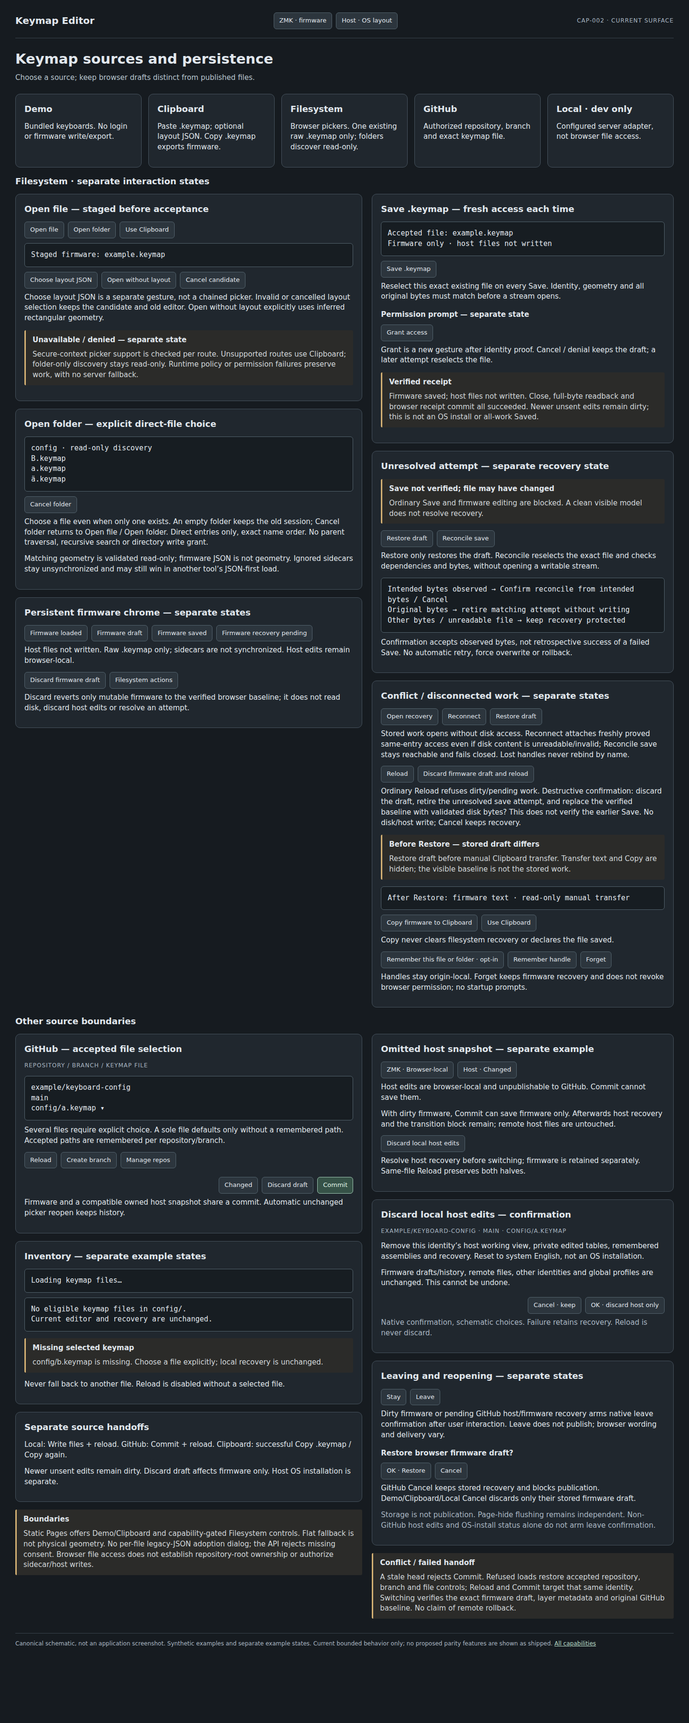
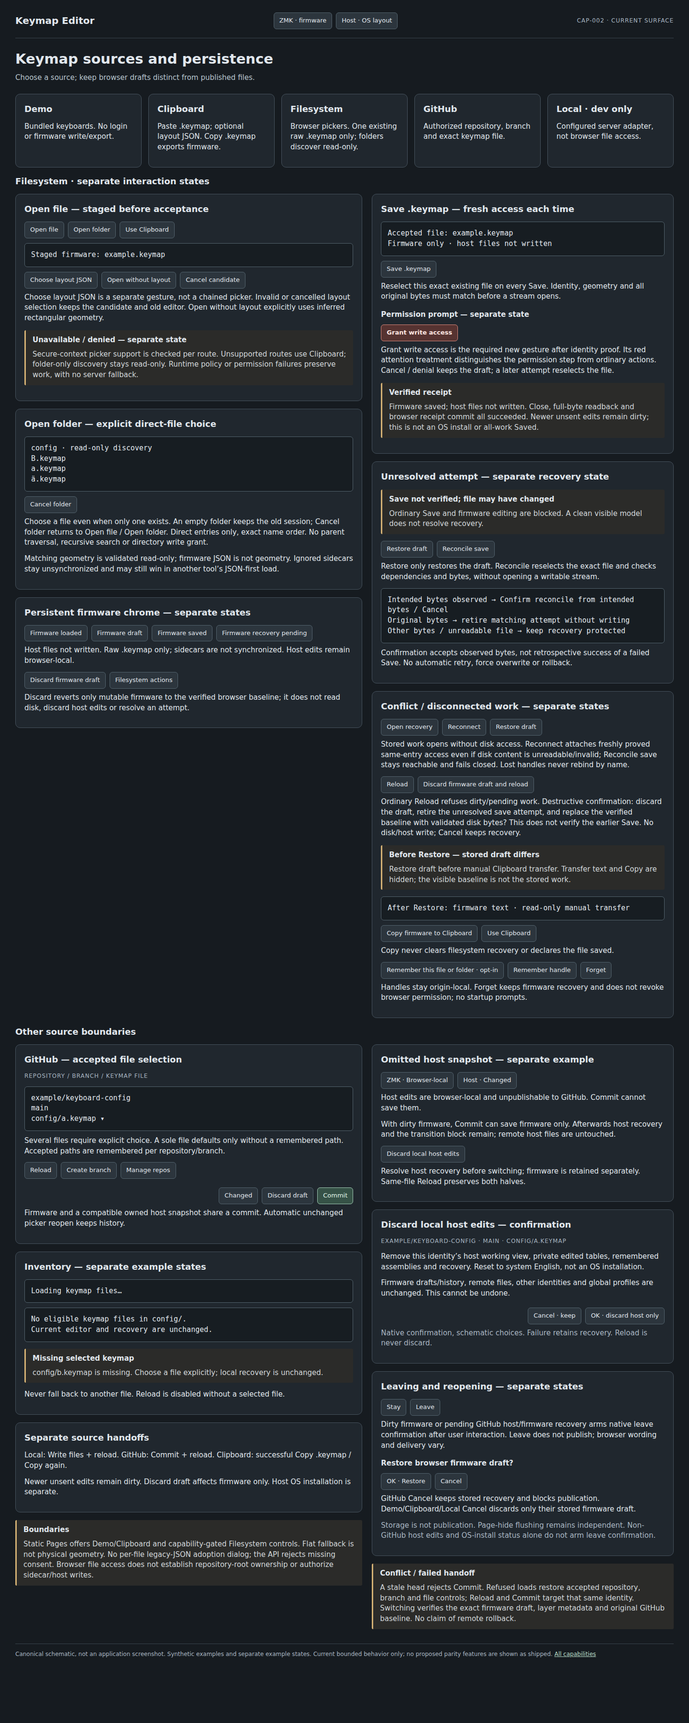
Emphasize explicit filesystem write permission.

diff --git a/docs/product/wireframes/html/CAP-002-keymap-sources-and-persistence.html b/docs/product/wireframes/html/CAP-002-keymap-sources-and-persistence.html
@@ -1,6 +1,6 @@
 <!doctype html>
 <html lang="en"><head><meta charset="utf-8"><meta name="viewport" content="width=device-width, initial-scale=1"><title>Keymap sources and persistence · Keymap Editor</title><style>
-:root{color-scheme:dark;font-family:system-ui,sans-serif;background:#161b20;color:#e1e7ed}*{box-sizing:border-box}body{margin:0;padding:26px 32px;font-size:15px;line-height:1.45}header{display:flex;align-items:center;justify-content:space-between;border-bottom:1px solid #39434c;padding-bottom:18px}header strong{font-size:20px}.muted,small,.eyebrow{color:#a9b6c2}.eyebrow{text-transform:uppercase;font-size:12px;letter-spacing:.08em}h1{font-size:29px;margin:22px 0 3px}h2{font-size:18px;margin:0 0 13px}h3{font-size:15px;margin:16px 0 9px}p{margin:8px 0 12px}.intro{margin-bottom:22px;color:#b8c5ce}.columns{display:grid;grid-template-columns:1.15fr 1fr;gap:20px}.card{border:1px solid #46525d;background:#20272e;border-radius:10px;padding:18px;margin-bottom:16px}.chips,.actions{display:flex;gap:8px;flex-wrap:wrap}.chip{display:inline-block;border:1px solid #52626c;border-radius:6px;padding:7px 11px;background:#2c353d;font-size:13px}.selected{border-color:#9fc8b3;background:#365247;color:#e1f6eb}.actions{justify-content:flex-end;margin-top:18px}.notice{border-left:3px solid #d4b174;padding:10px 14px;background:#2b2b29;margin:14px 0;border-radius:3px}.notice p{color:#d2d7da;margin-bottom:0}.board{display:grid;grid-template-columns:repeat(6,1fr);gap:8px;margin:20px 0 12px}.key{border:1px solid #566674;border-bottom:3px solid #61747f;border-radius:7px;padding:8px 5px;background:#303c46;min-height:112px;text-align:center;display:flex;flex-direction:column;justify-content:space-between}.key small{font-size:10px}.key b{font-size:22px}.key span{font-size:12px;color:#9baab6}.focused{outline:2px solid #a0c9b3}.binding,.field{font-family:ui-monospace,monospace;background:#171d22;border:1px solid #52626c;border-radius:6px;padding:13px;margin:10px 0}.binding{font-size:25px}.sources{display:grid;grid-template-columns:repeat(4,1fr);gap:14px}.sources .card{min-height:133px}.levels{display:grid;grid-template-columns:repeat(4,1fr);gap:8px;margin:15px 0}.levels div{border:1px solid #52626c;padding:9px;border-radius:5px;font-size:12px}.levels strong{display:block;font-size:25px;margin-top:8px;color:#bedbc9}footer{margin-top:16px;border-top:1px solid #39434c;padding-top:13px;color:#a9b6c2;font-size:12px}a{color:#b8ddc9}ul{padding-left:20px}li{margin:13px 0}
+:root{color-scheme:dark;font-family:system-ui,sans-serif;background:#161b20;color:#e1e7ed}*{box-sizing:border-box}body{margin:0;padding:26px 32px;font-size:15px;line-height:1.45}header{display:flex;align-items:center;justify-content:space-between;border-bottom:1px solid #39434c;padding-bottom:18px}header strong{font-size:20px}.muted,small,.eyebrow{color:#a9b6c2}.eyebrow{text-transform:uppercase;font-size:12px;letter-spacing:.08em}h1{font-size:29px;margin:22px 0 3px}h2{font-size:18px;margin:0 0 13px}h3{font-size:15px;margin:16px 0 9px}p{margin:8px 0 12px}.intro{margin-bottom:22px;color:#b8c5ce}.columns{display:grid;grid-template-columns:1.15fr 1fr;gap:20px}.card{border:1px solid #46525d;background:#20272e;border-radius:10px;padding:18px;margin-bottom:16px}.chips,.actions{display:flex;gap:8px;flex-wrap:wrap}.chip{display:inline-block;border:1px solid #52626c;border-radius:6px;padding:7px 11px;background:#2c353d;font-size:13px}.selected{border-color:#9fc8b3;background:#365247;color:#e1f6eb}.danger{border-color:#d4867a;background:#563331;color:#ffe7e2;font-weight:700}.actions{justify-content:flex-end;margin-top:18px}.notice{border-left:3px solid #d4b174;padding:10px 14px;background:#2b2b29;margin:14px 0;border-radius:3px}.notice p{color:#d2d7da;margin-bottom:0}.board{display:grid;grid-template-columns:repeat(6,1fr);gap:8px;margin:20px 0 12px}.key{border:1px solid #566674;border-bottom:3px solid #61747f;border-radius:7px;padding:8px 5px;background:#303c46;min-height:112px;text-align:center;display:flex;flex-direction:column;justify-content:space-between}.key small{font-size:10px}.key b{font-size:22px}.key span{font-size:12px;color:#9baab6}.focused{outline:2px solid #a0c9b3}.binding,.field{font-family:ui-monospace,monospace;background:#171d22;border:1px solid #52626c;border-radius:6px;padding:13px;margin:10px 0}.binding{font-size:25px}.sources{display:grid;grid-template-columns:repeat(4,1fr);gap:14px}.sources .card{min-height:133px}.levels{display:grid;grid-template-columns:repeat(4,1fr);gap:8px;margin:15px 0}.levels div{border:1px solid #52626c;padding:9px;border-radius:5px;font-size:12px}.levels strong{display:block;font-size:25px;margin-top:8px;color:#bedbc9}footer{margin-top:16px;border-top:1px solid #39434c;padding-top:13px;color:#a9b6c2;font-size:12px}a{color:#b8ddc9}ul{padding-left:20px}li{margin:13px 0}
 </style></head><body><header><strong>Keymap Editor</strong><div class="chips"><span class="chip">ZMK · firmware</span><span class="chip">Host · OS layout</span></div><span class="eyebrow">CAP-002 · current surface</span></header><main><h1>Keymap sources and persistence</h1><p class="intro">Choose a source; keep browser drafts distinct from published files.</p><div class="sources" style="grid-template-columns:repeat(5,1fr)"><section class="card"><h2>Demo</h2><p>Bundled keyboards. No login or firmware write/export.</p></section><section class="card"><h2>Clipboard</h2><p>Paste .keymap; optional layout JSON. Copy .keymap exports firmware.</p></section><section class="card"><h2>Filesystem</h2><p>Browser pickers. One existing raw .keymap only; folders discover read-only.</p></section><section class="card"><h2>GitHub</h2><p>Authorized repository, branch and exact keymap file.</p></section><section class="card"><h2>Local · dev only</h2><p>Configured server adapter, not browser file access.</p></section></div>
 <h2>Filesystem · separate interaction states</h2>
 <div class="columns"><div>
@@ -8,7 +8,7 @@
 <section class="card"><h2>Open folder — explicit direct-file choice</h2><div class="field">config · read-only discovery<br>B.keymap<br>a.keymap<br>ä.keymap</div><div class="chips"><span class="chip">Cancel folder</span></div><p>Choose a file even when only one exists. An empty folder keeps the old session; Cancel folder returns to Open file / Open folder. Direct entries only, exact name order. No parent traversal, recursive search or directory write grant.</p><p>Matching geometry is validated read-only; firmware JSON is not geometry. Ignored sidecars stay unsynchronized and may still win in another tool’s JSON-first load.</p></section>
 <section class="card"><h2>Persistent firmware chrome — separate states</h2><div class="chips"><span class="chip">Firmware loaded</span><span class="chip">Firmware draft</span><span class="chip">Firmware saved</span><span class="chip">Firmware recovery pending</span></div><p>Host files not written. Raw .keymap only; sidecars are not synchronized. Host edits remain browser-local.</p><div class="chips"><span class="chip">Discard firmware draft</span><span class="chip">Filesystem actions</span></div><p>Discard reverts only mutable firmware to the verified browser baseline; it does not read disk, discard host edits or resolve an attempt.</p></section>
 </div><div>
-<section class="card"><h2>Save .keymap — fresh access each time</h2><div class="field">Accepted file: example.keymap<br>Firmware only · host files not written</div><div class="chips"><span class="chip">Save .keymap</span></div><p>Reselect this exact existing file on every Save. Identity, geometry and all original bytes must match before a stream opens.</p><h3>Permission prompt — separate state</h3><div class="chips"><span class="chip">Grant access</span></div><p>Grant is a new gesture after identity proof. Cancel / denial keeps the draft; a later attempt reselects the file.</p><div class="notice"><strong>Verified receipt</strong><p>Firmware saved; host files not written. Close, full-byte readback and browser receipt commit all succeeded. Newer unsent edits remain dirty; this is not an OS install or all-work Saved.</p></div></section>
+<section class="card"><h2>Save .keymap — fresh access each time</h2><div class="field">Accepted file: example.keymap<br>Firmware only · host files not written</div><div class="chips"><span class="chip">Save .keymap</span></div><p>Reselect this exact existing file on every Save. Identity, geometry and all original bytes must match before a stream opens.</p><h3>Permission prompt — separate state</h3><div class="chips"><span class="chip danger">Grant write access</span></div><p>Grant write access is the required new gesture after identity proof. Its red attention treatment distinguishes the permission step from ordinary actions. Cancel / denial keeps the draft; a later attempt reselects the file.</p><div class="notice"><strong>Verified receipt</strong><p>Firmware saved; host files not written. Close, full-byte readback and browser receipt commit all succeeded. Newer unsent edits remain dirty; this is not an OS install or all-work Saved.</p></div></section>
 <section class="card"><h2>Unresolved attempt — separate recovery state</h2><div class="notice"><strong>Save not verified; file may have changed</strong><p>Ordinary Save and firmware editing are blocked. A clean visible model does not resolve recovery.</p></div><div class="chips"><span class="chip">Restore draft</span><span class="chip">Reconcile save</span></div><p>Restore only restores the draft. Reconcile reselects the exact file and checks dependencies and bytes, without opening a writable stream.</p><div class="field">Intended bytes observed → Confirm reconcile from intended bytes / Cancel<br>Original bytes → retire matching attempt without writing<br>Other bytes / unreadable file → keep recovery protected</div><p>Confirmation accepts observed bytes, not retrospective success of a failed Save. No automatic retry, force overwrite or rollback.</p></section>
 <section class="card"><h2>Conflict / disconnected work — separate states</h2><div class="chips"><span class="chip">Open recovery</span><span class="chip">Reconnect</span><span class="chip">Restore draft</span></div><p>Stored work opens without disk access. Reconnect attaches freshly proved same-entry access even if disk content is unreadable/invalid; Reconcile save stays reachable and fails closed. Lost handles never rebind by name.</p><div class="chips"><span class="chip">Reload</span><span class="chip">Discard firmware draft and reload</span></div><p>Ordinary Reload refuses dirty/pending work. Destructive confirmation: discard the draft, retire the unresolved save attempt, and replace the verified baseline with validated disk bytes? This does not verify the earlier Save. No disk/host write; Cancel keeps recovery.</p><div class="notice"><strong>Before Restore — stored draft differs</strong><p>Restore draft before manual Clipboard transfer. Transfer text and Copy are hidden; the visible baseline is not the stored work.</p></div><div class="field">After Restore: firmware text · read-only manual transfer</div><div class="chips"><span class="chip">Copy firmware to Clipboard</span><span class="chip">Use Clipboard</span></div><p>Copy never clears filesystem recovery or declares the file saved.</p><div class="chips"><span class="chip">Remember this file or folder · opt-in</span><span class="chip">Remember handle</span><span class="chip">Forget</span></div><p>Handles stay origin-local. Forget keeps firmware recovery and does not revoke browser permission; no startup prompts.</p></section>
 </div></div>

diff --git a/docs/product/wireframes/html/CAP-001-firmware-keymap-editing.html b/docs/product/wireframes/html/CAP-001-firmware-keymap-editing.html
@@ -1,6 +1,6 @@
 <!doctype html>
 <html lang="en"><head><meta charset="utf-8"><meta name="viewport" content="width=device-width, initial-scale=1"><title>Firmware keymap editing · Keymap Editor</title><style>
-:root{color-scheme:dark;font-family:system-ui,sans-serif;background:#161b20;color:#e1e7ed}*{box-sizing:border-box}body{margin:0;padding:26px 32px;font-size:15px;line-height:1.45}header{display:flex;align-items:center;justify-content:space-between;border-bottom:1px solid #39434c;padding-bottom:18px}header strong{font-size:20px}.muted,small,.eyebrow{color:#a9b6c2}.eyebrow{text-transform:uppercase;font-size:12px;letter-spacing:.08em}h1{font-size:29px;margin:22px 0 3px}h2{font-size:18px;margin:0 0 13px}h3{font-size:15px;margin:16px 0 9px}p{margin:8px 0 12px}.intro{margin-bottom:22px;color:#b8c5ce}.columns{display:grid;grid-template-columns:1.15fr 1fr;gap:20px}.card{border:1px solid #46525d;background:#20272e;border-radius:10px;padding:18px;margin-bottom:16px}.chips,.actions{display:flex;gap:8px;flex-wrap:wrap}.chip{display:inline-block;border:1px solid #52626c;border-radius:6px;padding:7px 11px;background:#2c353d;font-size:13px}.selected{border-color:#9fc8b3;background:#365247;color:#e1f6eb}.actions{justify-content:flex-end;margin-top:18px}.notice{border-left:3px solid #d4b174;padding:10px 14px;background:#2b2b29;margin:14px 0;border-radius:3px}.notice p{color:#d2d7da;margin-bottom:0}.board{display:grid;grid-template-columns:repeat(6,1fr);gap:8px;margin:20px 0 12px}.key{border:1px solid #566674;border-bottom:3px solid #61747f;border-radius:7px;padding:8px 5px;background:#303c46;min-height:112px;text-align:center;display:flex;flex-direction:column;justify-content:space-between}.key small{font-size:10px}.key b{font-size:22px}.key span{font-size:12px;color:#9baab6}.focused{outline:2px solid #a0c9b3}.binding,.field{font-family:ui-monospace,monospace;background:#171d22;border:1px solid #52626c;border-radius:6px;padding:13px;margin:10px 0}.binding{font-size:25px}.sources{display:grid;grid-template-columns:repeat(4,1fr);gap:14px}.sources .card{min-height:133px}.levels{display:grid;grid-template-columns:repeat(4,1fr);gap:8px;margin:15px 0}.levels div{border:1px solid #52626c;padding:9px;border-radius:5px;font-size:12px}.levels strong{display:block;font-size:25px;margin-top:8px;color:#bedbc9}footer{margin-top:16px;border-top:1px solid #39434c;padding-top:13px;color:#a9b6c2;font-size:12px}a{color:#b8ddc9}ul{padding-left:20px}li{margin:13px 0}
+:root{color-scheme:dark;font-family:system-ui,sans-serif;background:#161b20;color:#e1e7ed}*{box-sizing:border-box}body{margin:0;padding:26px 32px;font-size:15px;line-height:1.45}header{display:flex;align-items:center;justify-content:space-between;border-bottom:1px solid #39434c;padding-bottom:18px}header strong{font-size:20px}.muted,small,.eyebrow{color:#a9b6c2}.eyebrow{text-transform:uppercase;font-size:12px;letter-spacing:.08em}h1{font-size:29px;margin:22px 0 3px}h2{font-size:18px;margin:0 0 13px}h3{font-size:15px;margin:16px 0 9px}p{margin:8px 0 12px}.intro{margin-bottom:22px;color:#b8c5ce}.columns{display:grid;grid-template-columns:1.15fr 1fr;gap:20px}.card{border:1px solid #46525d;background:#20272e;border-radius:10px;padding:18px;margin-bottom:16px}.chips,.actions{display:flex;gap:8px;flex-wrap:wrap}.chip{display:inline-block;border:1px solid #52626c;border-radius:6px;padding:7px 11px;background:#2c353d;font-size:13px}.selected{border-color:#9fc8b3;background:#365247;color:#e1f6eb}.danger{border-color:#d4867a;background:#563331;color:#ffe7e2;font-weight:700}.actions{justify-content:flex-end;margin-top:18px}.notice{border-left:3px solid #d4b174;padding:10px 14px;background:#2b2b29;margin:14px 0;border-radius:3px}.notice p{color:#d2d7da;margin-bottom:0}.board{display:grid;grid-template-columns:repeat(6,1fr);gap:8px;margin:20px 0 12px}.key{border:1px solid #566674;border-bottom:3px solid #61747f;border-radius:7px;padding:8px 5px;background:#303c46;min-height:112px;text-align:center;display:flex;flex-direction:column;justify-content:space-between}.key small{font-size:10px}.key b{font-size:22px}.key span{font-size:12px;color:#9baab6}.focused{outline:2px solid #a0c9b3}.binding,.field{font-family:ui-monospace,monospace;background:#171d22;border:1px solid #52626c;border-radius:6px;padding:13px;margin:10px 0}.binding{font-size:25px}.sources{display:grid;grid-template-columns:repeat(4,1fr);gap:14px}.sources .card{min-height:133px}.levels{display:grid;grid-template-columns:repeat(4,1fr);gap:8px;margin:15px 0}.levels div{border:1px solid #52626c;padding:9px;border-radius:5px;font-size:12px}.levels strong{display:block;font-size:25px;margin-top:8px;color:#bedbc9}footer{margin-top:16px;border-top:1px solid #39434c;padding-top:13px;color:#a9b6c2;font-size:12px}a{color:#b8ddc9}ul{padding-left:20px}li{margin:13px 0}
 .layer-rows{width:100%;border-collapse:collapse;margin:12px 0}.layer-rows th,.layer-rows td{padding:6px;text-align:left;border-bottom:1px solid #46525d}.layer-rows th{font-weight:500}.layer-rows .chip{padding:3px 8px}</style></head><body><header><strong>Keymap Editor</strong><div class="chips"><span class="chip">ZMK · firmware</span><span class="chip">Host · OS layout</span></div><span class="eyebrow">CAP-001 · current surface</span></header><main><h1>Firmware keymap editing</h1><p class="intro">Edit a binding without replacing the rest of the keymap.</p><div class="columns"><div>
 <section class="card"><h2>Layers and board</h2><div class="chips"><span class="chip">Base · Rename</span><span class="chip">Lower · Rename</span><span class="chip">Add Layer</span><span class="chip">Delete layer</span></div><div class="board"><div class="key"><small>Base</small><b>qQ</b><span>ˬ ˬ</span><small>Lower · &amp;trans</small></div><div class="key"><small>Base</small><b>wW</b><span>ˬ ˬ</span><small>Lower · &amp;trans</small></div><div class="key focused"><small>Base</small><b>eE</b><span>ˬ ˬ</span><small>Lower · &amp;trans</small></div><div class="key"><small>Base</small><b>rR</b><span>ˬ ˬ</span><small>Lower · &amp;trans</small></div><div class="key"><small>Base</small><b>tT</b><span>ˬ ˬ</span><small>Lower · &amp;trans</small></div><div class="key"><small>Base</small><b>yY</b><span>ˬ ˬ</span><small>Lower · &amp;trans</small></div><div class="key"><small>Base</small><b>aA</b><span>ˬ ˬ</span><small>Lower · &amp;trans</small></div><div class="key"><small>Base</small><b>sS</b><span>ˬ ˬ</span><small>Lower · &amp;trans</small></div><div class="key"><small>Base</small><b>dD</b><span>ˬ ˬ</span><small>Lower · &amp;trans</small></div><div class="key"><small>Base</small><b>fF</b><span>ˬ ˬ</span><small>Lower · &amp;trans</small></div><div class="key"><small>Base</small><b>gG</b><span>ˬ ˬ</span><small>Lower · &amp;trans</small></div><div class="key"><small>Base</small><b>hH</b><span>ˬ ˬ</span><small>Lower · &amp;trans</small></div></div><p class="muted">Synthetic 12-key fixture · click a firmware row to edit that layer.</p><div class="chips"><span class="chip">Combos</span><span class="chip">Colors</span><span class="chip">Scheme</span></div><p>Also: conditional layers, encoder CW/CCW, hold-tap timing, Homerow / Autoshift, fixed Layer + RGB recipe.</p><p>Bluetooth: BT_DISC + profile 0–4, BT_CLR_ALL.<br>RGB: RGB_ON / RGB_OFF; no general color editor.</p></section>
 <section class="card"><h2>Expanded layer table · Stack off</h2><p class="eyebrow">Demo or verified Clipboard source</p><table class="layer-rows"><thead><tr><th>Layer</th><th>Firmware actions</th></tr></thead><tbody><tr><th>0 · Base</th><td><span class="chip">Duplicate</span> <span class="chip">Move · fixed</span></td></tr><tr><th>1 · Lower</th><td><span class="chip">Duplicate</span> <span class="chip">Move</span></td></tr><tr><th>2 · Raise</th><td><span class="chip">Duplicate</span> <span class="chip">Move</span></td></tr></tbody></table><p>Duplicate appends “Lower copy”; keys and encoder turns are independent. References still target original layers. One firmware undo step.</p><h3>Move Lower — separate staged example</h3><div class="field">New layer position · 2 · Raise ▾</div><div class="actions"><span class="chip selected">Apply move</span><span class="chip">Cancel</span></div><p>Keyboard: Move → position → Apply. Or drag Move onto another Move control. Layer 0 stays fixed; moves change priority, not reference targets.</p><p class="muted">Focus follows the moved control. Cancel / Escape / unchanged position retain redo. Duplicate keeps focus on its source control.</p></section>

diff --git a/docs/product/wireframes/html/CAP-003-host-layouts-and-legends.html b/docs/product/wireframes/html/CAP-003-host-layouts-and-legends.html
@@ -1,6 +1,6 @@
 <!doctype html>
 <html lang="en"><head><meta charset="utf-8"><meta name="viewport" content="width=device-width, initial-scale=1"><title>Host layouts and composed legends · Keymap Editor</title><style>
-:root{color-scheme:dark;font-family:system-ui,sans-serif;background:#161b20;color:#e1e7ed}*{box-sizing:border-box}body{margin:0;padding:26px 32px;font-size:15px;line-height:1.45}header{display:flex;align-items:center;justify-content:space-between;border-bottom:1px solid #39434c;padding-bottom:18px}header strong{font-size:20px}.muted,small,.eyebrow{color:#a9b6c2}.eyebrow{text-transform:uppercase;font-size:12px;letter-spacing:.08em}h1{font-size:29px;margin:22px 0 3px}h2{font-size:18px;margin:0 0 13px}h3{font-size:15px;margin:16px 0 9px}p{margin:8px 0 12px}.intro{margin-bottom:22px;color:#b8c5ce}.columns{display:grid;grid-template-columns:1.15fr 1fr;gap:20px}.card{border:1px solid #46525d;background:#20272e;border-radius:10px;padding:18px;margin-bottom:16px}.chips,.actions{display:flex;gap:8px;flex-wrap:wrap}.chip{display:inline-block;border:1px solid #52626c;border-radius:6px;padding:7px 11px;background:#2c353d;font-size:13px}.selected{border-color:#9fc8b3;background:#365247;color:#e1f6eb}.actions{justify-content:flex-end;margin-top:18px}.notice{border-left:3px solid #d4b174;padding:10px 14px;background:#2b2b29;margin:14px 0;border-radius:3px}.notice p{color:#d2d7da;margin-bottom:0}.board{display:grid;grid-template-columns:repeat(6,1fr);gap:8px;margin:20px 0 12px}.key{border:1px solid #566674;border-bottom:3px solid #61747f;border-radius:7px;padding:8px 5px;background:#303c46;min-height:112px;text-align:center;display:flex;flex-direction:column;justify-content:space-between}.key small{font-size:10px}.key b{font-size:22px}.key span{font-size:12px;color:#9baab6}.focused{outline:2px solid #a0c9b3}.binding,.field{font-family:ui-monospace,monospace;background:#171d22;border:1px solid #52626c;border-radius:6px;padding:13px;margin:10px 0}.binding{font-size:25px}.sources{display:grid;grid-template-columns:repeat(4,1fr);gap:14px}.sources .card{min-height:133px}.levels{display:grid;grid-template-columns:repeat(4,1fr);gap:8px;margin:15px 0}.levels div{border:1px solid #52626c;padding:9px;border-radius:5px;font-size:12px}.levels strong{display:block;font-size:25px;margin-top:8px;color:#bedbc9}footer{margin-top:16px;border-top:1px solid #39434c;padding-top:13px;color:#a9b6c2;font-size:12px}a{color:#b8ddc9}ul{padding-left:20px}li{margin:13px 0}
+:root{color-scheme:dark;font-family:system-ui,sans-serif;background:#161b20;color:#e1e7ed}*{box-sizing:border-box}body{margin:0;padding:26px 32px;font-size:15px;line-height:1.45}header{display:flex;align-items:center;justify-content:space-between;border-bottom:1px solid #39434c;padding-bottom:18px}header strong{font-size:20px}.muted,small,.eyebrow{color:#a9b6c2}.eyebrow{text-transform:uppercase;font-size:12px;letter-spacing:.08em}h1{font-size:29px;margin:22px 0 3px}h2{font-size:18px;margin:0 0 13px}h3{font-size:15px;margin:16px 0 9px}p{margin:8px 0 12px}.intro{margin-bottom:22px;color:#b8c5ce}.columns{display:grid;grid-template-columns:1.15fr 1fr;gap:20px}.card{border:1px solid #46525d;background:#20272e;border-radius:10px;padding:18px;margin-bottom:16px}.chips,.actions{display:flex;gap:8px;flex-wrap:wrap}.chip{display:inline-block;border:1px solid #52626c;border-radius:6px;padding:7px 11px;background:#2c353d;font-size:13px}.selected{border-color:#9fc8b3;background:#365247;color:#e1f6eb}.danger{border-color:#d4867a;background:#563331;color:#ffe7e2;font-weight:700}.actions{justify-content:flex-end;margin-top:18px}.notice{border-left:3px solid #d4b174;padding:10px 14px;background:#2b2b29;margin:14px 0;border-radius:3px}.notice p{color:#d2d7da;margin-bottom:0}.board{display:grid;grid-template-columns:repeat(6,1fr);gap:8px;margin:20px 0 12px}.key{border:1px solid #566674;border-bottom:3px solid #61747f;border-radius:7px;padding:8px 5px;background:#303c46;min-height:112px;text-align:center;display:flex;flex-direction:column;justify-content:space-between}.key small{font-size:10px}.key b{font-size:22px}.key span{font-size:12px;color:#9baab6}.focused{outline:2px solid #a0c9b3}.binding,.field{font-family:ui-monospace,monospace;background:#171d22;border:1px solid #52626c;border-radius:6px;padding:13px;margin:10px 0}.binding{font-size:25px}.sources{display:grid;grid-template-columns:repeat(4,1fr);gap:14px}.sources .card{min-height:133px}.levels{display:grid;grid-template-columns:repeat(4,1fr);gap:8px;margin:15px 0}.levels div{border:1px solid #52626c;padding:9px;border-radius:5px;font-size:12px}.levels strong{display:block;font-size:25px;margin-top:8px;color:#bedbc9}footer{margin-top:16px;border-top:1px solid #39434c;padding-top:13px;color:#a9b6c2;font-size:12px}a{color:#b8ddc9}ul{padding-left:20px}li{margin:13px 0}
 .layer-rows{width:100%;border-collapse:collapse;margin:12px 0}.layer-rows th,.layer-rows td{padding:6px;text-align:left;border-bottom:1px solid #46525d}.layer-rows th{font-weight:500}.layer-rows .chip{padding:3px 8px}</style></head><body><header><strong>Keymap Editor</strong><div class="chips"><span class="chip">ZMK · firmware</span><span class="chip">Host · OS layout</span></div><span class="eyebrow">CAP-003 · current surface</span></header><main><h1>Host layouts and composed legends</h1><p class="intro">See the host characters, then edit a user copy or export OS layout sources.</p><div class="columns"><div><section class="card"><h2>Language profiles and composed board</h2><div class="chips"><span class="chip">English · System</span><span class="chip">German · User copy</span><span class="chip">Stack</span><span class="chip">Differences</span><span class="chip">Remember</span></div><div class="board"><div class="key"><small>Base</small><b>qQ</b><span>ˬ ˬ</span><small>Lower · &amp;trans</small></div><div class="key"><small>Base</small><b>wW</b><span>ˬ ˬ</span><small>Lower · &amp;trans</small></div><div class="key focused"><small>Base</small><b>eE</b><span>ˬ ˬ</span><small>Lower · &amp;trans</small></div><div class="key"><small>Base</small><b>rR</b><span>ˬ ˬ</span><small>Lower · &amp;trans</small></div><div class="key"><small>Base</small><b>tT</b><span>ˬ ˬ</span><small>Lower · &amp;trans</small></div><div class="key"><small>Base</small><b>yY</b><span>ˬ ˬ</span><small>Lower · &amp;trans</small></div><div class="key"><small>Base</small><b>aA</b><span>ˬ ˬ</span><small>Lower · &amp;trans</small></div><div class="key"><small>Base</small><b>sS</b><span>ˬ ˬ</span><small>Lower · &amp;trans</small></div><div class="key"><small>Base</small><b>dD</b><span>ˬ ˬ</span><small>Lower · &amp;trans</small></div><div class="key"><small>Base</small><b>fF</b><span>ˬ ˬ</span><small>Lower · &amp;trans</small></div><div class="key"><small>Base</small><b>gG</b><span>ˬ ˬ</span><small>Lower · &amp;trans</small></div><div class="key"><small>Base</small><b>hH</b><span>ˬ ˬ</span><small>Lower · &amp;trans</small></div></div><p class="muted">Synthetic 12-key fixture · click a firmware row to edit that layer.</p><p>Four level slots per on-keycap language; at most two languages on the keycap. Hover previews read-only decoding.</p></section>
 <section class="card"><h2>Layer strip · expanded on focus or hover</h2><table class="layer-rows"><thead><tr><th>Layer</th><th>Firmware actions</th></tr></thead><tbody><tr><th>0 · Base</th><td><span class="chip">Duplicate</span> <span class="chip">Move · fixed</span></td></tr><tr><th>1 · Raise</th><td><span class="chip">Duplicate</span> <span class="chip">Move</span></td></tr><tr><th>2 · Lower</th><td><span class="chip">Duplicate</span> <span class="chip">Move</span></td></tr></tbody></table><p>Stack off exposes firmware Duplicate / Move. Keyboard position selection and dragging Move use the same safe operation. Resting strip and language-stack mode hide these controls.</p><div class="field">Moved Lower to position 2.<br>Layer priority changed; reference targets were preserved.</div><p>Eyes follow logical layers through move, undo, redo and discard — also after draft recovery. The raw-base preference stays unchanged; a copy is not auto-shown.</p></section>
 <section class="card"><h2>Host lane — separate from firmware history</h2><div class="chips"><span class="chip">Changed</span><span class="chip">Linux</span><span class="chip">Windows</span></div><p>ZMK undo/redo and Discard draft do not undo host glyph changes. Non-GitHub host edits and OS-install status alone do not arm leave confirmation.</p></section>

diff --git a/docs/product/wireframes/index.html b/docs/product/wireframes/index.html
@@ -1,4 +1,4 @@
 <!doctype html>
 <html lang="en"><head><meta charset="utf-8"><meta name="viewport" content="width=device-width, initial-scale=1"><title>Current capability wireframes · Keymap Editor</title><style>
-:root{color-scheme:dark;font-family:system-ui,sans-serif;background:#161b20;color:#e1e7ed}*{box-sizing:border-box}body{margin:0;padding:26px 32px;font-size:15px;line-height:1.45}header{display:flex;align-items:center;justify-content:space-between;border-bottom:1px solid #39434c;padding-bottom:18px}header strong{font-size:20px}.muted,small,.eyebrow{color:#a9b6c2}.eyebrow{text-transform:uppercase;font-size:12px;letter-spacing:.08em}h1{font-size:29px;margin:22px 0 3px}h2{font-size:18px;margin:0 0 13px}h3{font-size:15px;margin:16px 0 9px}p{margin:8px 0 12px}.intro{margin-bottom:22px;color:#b8c5ce}.columns{display:grid;grid-template-columns:1.15fr 1fr;gap:20px}.card{border:1px solid #46525d;background:#20272e;border-radius:10px;padding:18px;margin-bottom:16px}.chips,.actions{display:flex;gap:8px;flex-wrap:wrap}.chip{display:inline-block;border:1px solid #52626c;border-radius:6px;padding:7px 11px;background:#2c353d;font-size:13px}.selected{border-color:#9fc8b3;background:#365247;color:#e1f6eb}.actions{justify-content:flex-end;margin-top:18px}.notice{border-left:3px solid #d4b174;padding:10px 14px;background:#2b2b29;margin:14px 0;border-radius:3px}.notice p{color:#d2d7da;margin-bottom:0}.board{display:grid;grid-template-columns:repeat(6,1fr);gap:8px;margin:20px 0 12px}.key{border:1px solid #566674;border-bottom:3px solid #61747f;border-radius:7px;padding:8px 5px;background:#303c46;min-height:112px;text-align:center;display:flex;flex-direction:column;justify-content:space-between}.key small{font-size:10px}.key b{font-size:22px}.key span{font-size:12px;color:#9baab6}.focused{outline:2px solid #a0c9b3}.binding,.field{font-family:ui-monospace,monospace;background:#171d22;border:1px solid #52626c;border-radius:6px;padding:13px;margin:10px 0}.binding{font-size:25px}.sources{display:grid;grid-template-columns:repeat(4,1fr);gap:14px}.sources .card{min-height:133px}.levels{display:grid;grid-template-columns:repeat(4,1fr);gap:8px;margin:15px 0}.levels div{border:1px solid #52626c;padding:9px;border-radius:5px;font-size:12px}.levels strong{display:block;font-size:25px;margin-top:8px;color:#bedbc9}footer{margin-top:16px;border-top:1px solid #39434c;padding-top:13px;color:#a9b6c2;font-size:12px}a{color:#b8ddc9}ul{padding-left:20px}li{margin:13px 0}
+:root{color-scheme:dark;font-family:system-ui,sans-serif;background:#161b20;color:#e1e7ed}*{box-sizing:border-box}body{margin:0;padding:26px 32px;font-size:15px;line-height:1.45}header{display:flex;align-items:center;justify-content:space-between;border-bottom:1px solid #39434c;padding-bottom:18px}header strong{font-size:20px}.muted,small,.eyebrow{color:#a9b6c2}.eyebrow{text-transform:uppercase;font-size:12px;letter-spacing:.08em}h1{font-size:29px;margin:22px 0 3px}h2{font-size:18px;margin:0 0 13px}h3{font-size:15px;margin:16px 0 9px}p{margin:8px 0 12px}.intro{margin-bottom:22px;color:#b8c5ce}.columns{display:grid;grid-template-columns:1.15fr 1fr;gap:20px}.card{border:1px solid #46525d;background:#20272e;border-radius:10px;padding:18px;margin-bottom:16px}.chips,.actions{display:flex;gap:8px;flex-wrap:wrap}.chip{display:inline-block;border:1px solid #52626c;border-radius:6px;padding:7px 11px;background:#2c353d;font-size:13px}.selected{border-color:#9fc8b3;background:#365247;color:#e1f6eb}.danger{border-color:#d4867a;background:#563331;color:#ffe7e2;font-weight:700}.actions{justify-content:flex-end;margin-top:18px}.notice{border-left:3px solid #d4b174;padding:10px 14px;background:#2b2b29;margin:14px 0;border-radius:3px}.notice p{color:#d2d7da;margin-bottom:0}.board{display:grid;grid-template-columns:repeat(6,1fr);gap:8px;margin:20px 0 12px}.key{border:1px solid #566674;border-bottom:3px solid #61747f;border-radius:7px;padding:8px 5px;background:#303c46;min-height:112px;text-align:center;display:flex;flex-direction:column;justify-content:space-between}.key small{font-size:10px}.key b{font-size:22px}.key span{font-size:12px;color:#9baab6}.focused{outline:2px solid #a0c9b3}.binding,.field{font-family:ui-monospace,monospace;background:#171d22;border:1px solid #52626c;border-radius:6px;padding:13px;margin:10px 0}.binding{font-size:25px}.sources{display:grid;grid-template-columns:repeat(4,1fr);gap:14px}.sources .card{min-height:133px}.levels{display:grid;grid-template-columns:repeat(4,1fr);gap:8px;margin:15px 0}.levels div{border:1px solid #52626c;padding:9px;border-radius:5px;font-size:12px}.levels strong{display:block;font-size:25px;margin-top:8px;color:#bedbc9}footer{margin-top:16px;border-top:1px solid #39434c;padding-top:13px;color:#a9b6c2;font-size:12px}a{color:#b8ddc9}ul{padding-left:20px}li{margin:13px 0}
 </style></head><body><main><h1>Current capability wireframes</h1><p>Generated schematics of implemented behavior, not future proposals or application screenshots.</p><ul><li><a href="html/CAP-001-firmware-keymap-editing.html">CAP-001 — Firmware keymap editing</a> · <a href="exports/CAP-001-firmware-keymap-editing.png">PNG</a></li><li><a href="html/CAP-002-keymap-sources-and-persistence.html">CAP-002 — Keymap sources and persistence</a> · <a href="exports/CAP-002-keymap-sources-and-persistence.png">PNG</a></li><li><a href="html/CAP-003-host-layouts-and-legends.html">CAP-003 — Host layouts and composed legends</a> · <a href="exports/CAP-003-host-layouts-and-legends.png">PNG</a></li></ul></main></body></html>

diff --git a/e2e/filesystem.spec.ts b/e2e/filesystem.spec.ts
@@ -11,7 +11,7 @@
  * functions.
  *
  * Covered controls: Filesystem source radio, Open file, Open folder,
- * Choose layout JSON, Open without layout, Save .keymap, Grant access,
+ * Choose layout JSON, Open without layout, Save .keymap, Grant write access,
  * Reconcile save, Reconnect, Restore draft, Discard firmware draft and
  * reload, Use Clipboard.
  *
@@ -324,7 +324,7 @@ test.describe('filesystem source (synthetic picker doubles)', () => {
     await expect(save).toBeEnabled()
     await save.click()
     await expect(fsNotice(page)).toContainText(/access action is required|explicit access/i)
-    const grant = saving.getByRole('button', { name: 'Grant access' })
+    const grant = saving.getByRole('button', { name: 'Grant write access' })
     await expect(grant).toBeVisible()
     await grant.click()
 
@@ -366,7 +366,7 @@ test.describe('filesystem source (synthetic picker doubles)', () => {
     const saving = await openFilesystemActions(page)
     await saving.getByRole('button', { name: 'Save .keymap' }).click()
     await expect(fsNotice(page)).toContainText(/access action is required|explicit access/i)
-    await saving.getByRole('button', { name: 'Grant access' }).click()
+    await saving.getByRole('button', { name: 'Grant write access' }).click()
     await expect(fsNotice(page)).toContainText(/not granted|denied|draft.*unchanged/i)
     expect(await fsDisk(page, 'a.keymap')).not.toContain('&kp F13')
     const log = await fsLog(page)

diff --git a/apps/web/src/lib/components/Pickers/Filesystem/Picker.svelte b/apps/web/src/lib/components/Pickers/Filesystem/Picker.svelte
@@ -878,7 +878,13 @@
           Save .keymap
         </button>
         {#if grantable}
-          <button type="button" disabled={busy} onclick={() => void grant()}>Grant access</button>
+          <button
+            type="button"
+            class="fs-grant-access"
+            title="Allow this site to write the selected .keymap"
+            disabled={busy}
+            onclick={() => void grant()}
+          >Grant write access</button>
         {/if}
         {#if canReconcile}
           <button type="button" disabled={busy} onclick={() => void reconcile()}>Reconcile save</button>
@@ -1001,6 +1007,19 @@
   .fs-actions button:disabled {
     cursor: not-allowed;
     opacity: 0.55;
+  }
+
+  /* A saved file is blocked until the explicit browser write grant. */
+  .fs-actions .fs-grant-access:not(:disabled) {
+    background: var(--danger-wash);
+    border-color: var(--danger-border);
+    color: var(--danger-ink);
+    font-weight: 700;
+  }
+
+  .fs-actions .fs-grant-access:hover:not(:disabled) {
+    background: color-mix(in srgb, var(--danger-wash) 70%, var(--danger-border));
+    border-color: var(--danger-ink);
   }
 
   .fs-list {

diff --git a/apps/web/src/lib/components/Pickers/Filesystem/Picker.test.ts b/apps/web/src/lib/components/Pickers/Filesystem/Picker.test.ts
@@ -385,10 +385,12 @@ describe('FilesystemPicker', () => {
     flushSync()
 
     button('Save .keymap').click()
-    await vi.waitFor(() => expect(buttonContaining('Grant access')).toBeTruthy())
+    await vi.waitFor(() => expect(buttonContaining('Grant write access')).toBeTruthy())
+    const grant = button('Grant write access')
+    expect(grant.classList.contains('fs-grant-access')).toBe(true)
     expect(stream.write).not.toHaveBeenCalled()
 
-    button('Grant access').click()
+    grant.click()
     await vi.waitFor(() => expect(stream.close).toHaveBeenCalled())
     expect(picked.requestPermission).toHaveBeenCalledWith({ mode: 'readwrite' })
   })

diff --git a/docs/product/capabilities/CAP-002-keymap-sources-and-persistence.md b/docs/product/capabilities/CAP-002-keymap-sources-and-persistence.md
@@ -11,7 +11,7 @@
 - Proved legacy mode retains config/keymap.json and config/info.json priority. Scoped mode uses selected-file firmware JSON, a matching template/physical-layout JSON and a durable mode marker per ADR 0002; shared legacy sidecars remain untouched. Creating a missing/invalid scoped firmware JSON beside legacy JSON requires revision-bound explicit input choice at the API. GitHub/Clipboard can infer a rectangular binding-count layout when geometry is absent.
 - The opt-in Local adapter reads/writes the configured development tree; it is not browser filesystem access.
 - The separate Filesystem source uses supported secure-context browser pickers without an API or GitHub file request. Open file stages one existing raw `.keymap`; a later Choose layout JSON action validates read-only geometry, or Open without layout explicitly uses a rectangular inferred layout. Cancellation or invalid supplied geometry keeps the candidate and the accepted editor unchanged. Open folder lists only direct eligible files in exact filename order and requires an explicit choice even for one file; it never grants folder write access.
-- Save .keymap requires fresh file-picker reselection on every attempt, handle equivalence, original firmware/dependency byte checks, and retained browser recovery before opening one writable stream. A prompt outcome exposes a separate Grant access gesture; denied/cancelled operations preserve work. Successful close, full-byte readback and a committed firmware receipt are required for “Firmware saved; host files not written.” Sidecars are not synchronized and browser display aliases do not rename DTS nodes.
+- Save .keymap requires fresh file-picker reselection on every attempt, handle equivalence, original firmware/dependency byte checks, and retained browser recovery before opening one writable stream. A prompt outcome exposes the red **Grant write access** action as a separate gesture; denied/cancelled operations preserve work. Successful close, full-byte readback and a committed firmware receipt are required for “Firmware saved; host files not written.” Sidecars are not synchronized and browser display aliases do not rename DTS nodes.
 - Filesystem chrome distinguishes loaded firmware, changed firmware, verified firmware Save and pending recovery even when the visible model is clean. Discard firmware draft restores only the verified browser baseline and preserves original source and unresolved attempts; it neither reads/adopts disk changes nor discards host edits. Restore draft restores browser work only. Reconcile save remains separate from ordinary Save/editing: it freshly proves file identity and bytes, retires an original-byte attempt or explicitly confirms intended bytes without rewriting, and keeps third-value conflicts protected.
 - Filesystem Reload stages freshly identity-checked file/geometry inputs. Ordinary Reload refuses dirty or pending work; confirmed Discard firmware draft and reload replaces browser baseline/recovery under captured revision and storage guards, without writing disk. With an unresolved attempt, confirmation explicitly names its retirement and replacement of the verified baseline with validated disk bytes; this does not verify the earlier Save. Cancellation performs no picker/read or adoption. Clean unchanged reload preserves history. Cancel folder exits an empty or populated discovery inventory without selecting a file.
 - Stored filesystem work can be opened without disk access, restored explicitly and transferred as core-generated firmware text. Before Restore, pending stored firmware or structural metadata differing from the live draft hides transfer text and Copy, with explicit Restore guidance; the visible baseline cannot masquerade as the stored draft. Copy firmware to Clipboard never accepts a filesystem save or clears its recovery. Reconnect requires a retained handle and fresh same-entry proof, then attaches access before inspecting content: unreadable/invalid firmware or invalid geometry leaves Reconcile save reachable, and failed reconciliation preserves recovery without writing. Lost handles retain manual transfer after Restore rather than rebinding by name. Remember this file or folder is opt-in, with separate origin-local handle storage; Forget releases that association without deleting firmware recovery or revoking browser permission. Mount/reload does not automatically open a picker or request permission.

diff --git a/docs/changes/active/CHG-007-browser-filesystem-keymap-source.md b/docs/changes/active/CHG-007-browser-filesystem-keymap-source.md
@@ -46,7 +46,7 @@ Paths name existing seams, not a claim that future symbols or tests already exis
 | --- | --- | --- | --- |
[1 lines of base64/hex data omitted]
 | 2 | Implement and prove the domain slice | done (core/web gate rerun passed; [fresh final autonomous review](../reviews/CHG-007/phase-2-final-autonomous-review.md): No findings) | `pnpm --filter @keymap-editor/keymap-core test && pnpm --filter @keymap-editor/web test` |
-| 3 | Integrate the interaction and visual handoff | done (web 81 files / 1,216 tests; 69 Playwright tests; canonical render/record gate passed; supported-Edge manual picker check passed; [final autonomous review](../reviews/CHG-007/phase-3-final-autonomous-review.md): No findings) | `pnpm --filter @keymap-editor/web test && pnpm test:e2e && pnpm wireframes:generate && pnpm wireframes:render && pnpm records:check` |
+| 3 | Integrate the interaction and visual handoff | done (web 81 files / 1,216 tests; 69 Playwright tests; canonical render/record gate passed; [permission CTA review](../reviews/CHG-007/phase-3-permission-cta-review.md): No findings) | `pnpm --filter @keymap-editor/web test && pnpm test:e2e && pnpm wireframes:generate && pnpm wireframes:render && pnpm records:check` |
 | 4 | Verify and close the change | pending | `pnpm wireframes:generate && pnpm wireframes:render && pnpm records:check && pnpm test && pnpm lint && pnpm build && pnpm test:e2e && pnpm test:e2e:prod && pnpm test:e2e:pages` |
 
 ## Phase 1 — Specify the safe behavior boundary
@@ -262,7 +262,7 @@ Use `docs/product/wireframes/generate.mjs` only for implemented CAP surfaces; re
 
 ## Execution state
 
-Phase 3 is **done**: the exact gate passed, a supported-Edge real-picker check passed, and the [final autonomous review](../reviews/CHG-007/phase-3-final-autonomous-review.md) returned **No findings**. Phase 4 remains **pending** and was not started. The following Phase 1/2 evidence is historical and does not certify the Phase 3 interaction diff.
+Phase 3 is **done**: the post-gate `Grant write access` correction passed the exact gate and the [permission CTA review](../reviews/CHG-007/phase-3-permission-cta-review.md) returned **No findings**. The earlier supported-Edge real-picker check remains valid because the correction only changes the in-app permission CTA presentation. Phase 4 remains **pending** and was not started. The following Phase 1/2 evidence is historical and does not certify the Phase 3 interaction diff.
 
[1 lines of base64/hex data omitted]
 

diff --git a/docs/changes/reviews/CHG-007/phase-3-permission-cta-review.md b/docs/changes/reviews/CHG-007/phase-3-permission-cta-review.md
@@ -1,0 +1,20 @@
+# CHG-007 Phase 3 permission CTA review
+
+**Status:** review-only
+**Reviewed:** 2026-10-17T23:02:31+02:00
+**Reviewer:** Grok, fresh `review-grant-write-access` session
+**Scope:** Post-gate Phase 3 correction against `b018721`: explicit filesystem write-permission CTA, its tests, CAP-002 and canonical wireframe.
+
+## Evidence reviewed
+
+- `pnpm --filter @keymap-editor/web test && pnpm test:e2e && pnpm wireframes:generate && pnpm wireframes:render && pnpm records:check` passed: 81 web test files / 1,216 tests; 69 Playwright tests; canonical screens generated and rendered; record validation passed.
+- Focused component regression confirms the exact `Grant write access` label, red attention class and request-permission call only after its click.
+- Visual inspection confirms the rendered CAP-002 permission card is readable, distinct and not clipped or overlapped.
+
+## Verdict
+
+No findings.
+
+## Boundary
+
+This re-approves Phase 3 after the permission-CTA correction only. It does not start Phase 4 or widen the one-existing-raw-`.keymap` write boundary.

diff --git a/docs/changes/reviews/CHG-007/README.md b/docs/changes/reviews/CHG-007/README.md
@@ -6,3 +6,4 @@ This package preserves independent review receipts. It is not a second progress 
 
 - [Phase 2 final autonomous review](phase-2-final-autonomous-review.md)
 - [Phase 3 final autonomous review](phase-3-final-autonomous-review.md)
+- [Phase 3 permission CTA review](phase-3-permission-cta-review.md)
